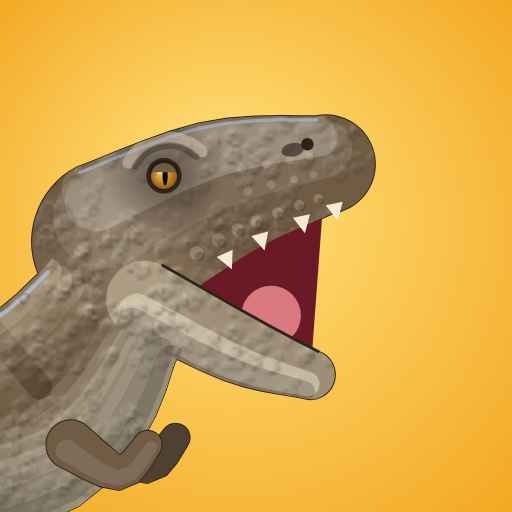
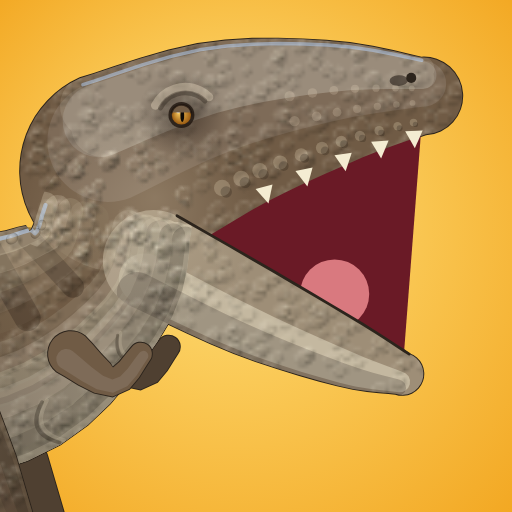
Reshape T. rex with realistic proportions
Claude-Session: https://claude.ai/code/session_01VZZ5QiPWKQFCNGsoWHmeoG

diff --git a/index.html b/index.html
@@ -393,7 +393,7 @@ function pose(sp, a) {
     let fx = L.hip[0] + L.fo + Math.cos(ph) * L.stride * a.amp, fy = -Math.max(0, -Math.sin(ph)) * L.lift * a.amp - L.r[2];
     if (kck && L.hip[0] > hipx + 4) { fx += kck * 38; fy -= kck * 34; }
     if (a.held) { fx = L.hip[0] + L.fo + Math.sin(a.time * 10 + L.ph) * 8; fy = 5 - L.r[2]; }
-    if (SHADE3D && sp.near.length === 1 && !a.held && !sp.fly) {
+    if ((SHADE3D || GAMEART) && sp.near.length === 1 && !a.held && !sp.fly) {
       const mt = L.l2 * 0.62, ax = fx - mt * 0.4, ay = fy - mt * 0.9, kk = ik(L.hip[0], hy2, L.l1 * 0.92, L.l2 * 0.8, ax, ay, L.bend);
       return {
         limb: catmull([[L.hip[0], hy2, L.r[0] * 1.18], [kk[0], kk[1], L.r[1] * 0.95], [kk[2], kk[3], L.r[2] * 0.72], [fx, fy, L.r[2] * 0.62]], 4),
@@ -421,7 +421,24 @@ function mix(h1, h2, t) { const a = parseInt(h1.slice(1), 16), b = parseInt(h2.s
 const skinTex = (() => { const c = document.createElement('canvas'); c.width = c.height = 72; const x = c.getContext('2d'), R = mulberry(9); for (let i = 0; i < 250; i++) { x.fillStyle = R() < 0.62 ? 'rgba(20,14,8,' + (0.1 + R() * 0.17) + ')' : 'rgba(255,248,225,' + (0.08 + R() * 0.12) + ')'; x.beginPath(); x.ellipse(R() * 72, R() * 72, 0.8 + R() * 2.2, 0.6 + R() * 1.6, R() * 3, 0, TAU); x.fill(); } return c; })();
 const skinPat = new WeakMap();
 /* sculpted look: soft rounded light and shadow across every body part, a cool rim light, shadow where limbs meet the body, and embossed scales */
-let SHADE3D = true;
+let SHADE3D = true, GAMEART = false;
+const GAME_C = { trex: { base: '#d8463a', dark: '#8f2620', belly: '#f3dcb6' } };
+function gameC(sp) { const o = { ...sp.c, ...(GAME_C[sp.id] || {}) }; o.far = shade(o.base, -0.32); o.hi = shade(o.base, 0.3); o.h1 = shade(o.base, 0.14); o.lo = shade(o.base, -0.26); o.line = shade(o.base, -0.7); o.mid = mix(o.base, o.belly, 0.72); return o; }
+function gameArt(ctx, sp, g, a) {
+  const d = g.dense, n = d.length, c = sp.c, R = mulberry(sp.id.length * 31 + 7);
+  ctx.save(); ctx.beginPath(); tube(ctx, d, 0); ctx.clip();
+  fillTubes(ctx, [offT(d, 0.86, 0.2)], 0, 'rgba(90,30,30,.2)');   // a crisp shadow along the underside
+  fillTubes(ctx, [offT(d, -0.72, 0.2, Math.floor(n * 0.05))], 0, 'rgba(255,235,210,.28)');   // and a bright band along the back
+  for (let i = 3; i < n - 3; i += 2) { const p = d[i], r = p[2], nn = nrm(d, i); if (r < 4) continue; for (let k = 0; k < 3; k++) { const v = -0.85 + R() * 0.9, x = p[0] + nn[0] * r * v + (R() - 0.5) * 6, y = p[1] + nn[1] * r * v + (R() - 0.5) * 6; ctx.fillStyle = R() < 0.6 ? 'rgba(90,20,20,.22)' : 'rgba(255,220,200,.2)'; circ(ctx, x, y, 0.6 + R() * 1.1); ctx.fill(); } }
+  ctx.restore();
+  const sk = g.skullD; for (let i = 1; i < sk.length - 2; i += 2) { const p = sk[i], nn = nrm(sk, i), x = p[0] - nn[0] * p[2] * 0.92, y = p[1] - nn[1] * p[2] * 0.92, r = Math.max(0.8, p[2] * 0.09); circ(ctx, x, y, r); ctx.fillStyle = c.lo; ctx.fill(); }   // knobbly scales on top of the head
+  for (let i = Math.floor(n * 0.62); i < n - 1; i += 3) { const p = d[i], nn = nrm(d, i), x = p[0] - nn[0] * p[2] * 0.95, y = p[1] - nn[1] * p[2] * 0.95, r = Math.max(0.8, p[2] * 0.07); circ(ctx, x, y, r); ctx.fillStyle = c.lo; ctx.fill(); }
+}
+function gameSocks(ctx, list, c) {   // lower legs and feet fade to a dark slate colour
+  for (const L of list) { const lb = L.limb, k = lb[Math.floor(lb.length * 0.55)], f = L.foot[1];
+    ctx.save(); ctx.beginPath(); for (const t of [lb, L.foot]) tube(ctx, t, 0); ctx.clip();
+    const gr = ctx.createLinearGradient(0, k[1] - k[2], 0, f[1]); gr.addColorStop(0, 'rgba(70,64,96,0)'); gr.addColorStop(0.45, 'rgba(70,64,96,.75)'); gr.addColorStop(1, 'rgba(58,52,80,.95)'); ctx.fillStyle = gr; ctx.fillRect(f[0] - 200, k[1] - k[2], 400, f[1] - k[1] + k[2] + 40); ctx.restore(); }
+}
 const scaleTex = (() => { const c = document.createElement('canvas'); c.width = c.height = 56; const x = c.getContext('2d'), R = mulberry(21);
   for (let i = 0; i < 160; i++) { const px = R() * 56, py = R() * 56, r = 1.1 + R() * 1.3; for (const [dx, dy] of [[0, 0], [56, 0], [-56, 0], [0, 56], [0, -56]]) { x.beginPath(); x.arc(px + dx, py + dy, r, Math.PI * 0.85, Math.PI * 1.85); x.strokeStyle = 'rgba(255,250,230,.16)'; x.lineWidth = 0.9; x.stroke(); x.beginPath(); x.arc(px + dx, py + dy, r, Math.PI * 1.85, Math.PI * 2.85); x.strokeStyle = 'rgba(15,10,6,.18)'; x.stroke(); } }
   return c; })();
@@ -504,6 +521,10 @@ function sculptLimbs(ctx, sp, g, a, list) {
   }
 }
 function drawEye(ctx, x, y, r, a, sp) {
+  if (GAMEART && !a.blink) { r *= 0.6; circ(ctx, x, y, r * 1.2); ctx.fillStyle = '#fff8ec'; ctx.fill(); ctx.strokeStyle = sp.c.line; ctx.lineWidth = Math.max(0.6, r * 0.18); ctx.stroke();
+    const ir = ctx.createRadialGradient(x, y + r * 0.2, r * 0.1, x, y, r * 0.95); ir.addColorStop(0, '#7fd0ff'); ir.addColorStop(1, '#1f5fb8'); circ(ctx, x + a.lx * r * 0.15, y, r * 0.85); ctx.fillStyle = ir; ctx.fill();
+    circ(ctx, x + a.lx * r * 0.2, y, r * 0.42); ctx.fillStyle = '#0c1020'; ctx.fill(); circ(ctx, x - r * 0.25, y - r * 0.35, r * 0.22); ctx.fillStyle = '#fff'; ctx.fill();
+    ctx.beginPath(); ctx.arc(x, y, r * 1.25, Math.PI * 1.1, Math.PI * 1.9); ctx.lineTo(x + r * 1.3, y - r * 0.6); ctx.closePath(); ctx.fillStyle = sp.c.lo; ctx.fill(); return; }
   if (SHADE3D) {
     r *= 0.5; const c = sp.c;
     circ(ctx, x, y, r * 1.35); ctx.fillStyle = 'rgba(25,16,10,.75)'; ctx.fill();
@@ -533,7 +554,7 @@ function desat(col) {
   const L = 0.3 * r + 0.59 * g + 0.11 * b, k = 0.3; r = (r + (L - r) * k) * 0.93; g = (g + (L - g) * k) * 0.93; b = (b + (L - b) * k) * 0.93; const h2 = v => Math.max(0, Math.min(255, Math.round(v))).toString(16).padStart(2, '0'); return '#' + h2(r) + h2(g) + h2(b);   // hex, so other colour helpers can keep mixing it
 }
 function realC(sp) { let o = realCols.get(sp); if (!o) { o = {}; for (const k in sp.c) o[k] = typeof sp.c[k] === 'string' ? desat(sp.c[k]) : sp.c[k]; realCols.set(sp, o); } return o; }
-function drawDino(ctx, sp, a) { if (!SHADE3D) return drawDino0(ctx, sp, a); const keep = sp.c; sp.c = realC(sp); try { drawDino0(ctx, sp, a); } finally { sp.c = keep; } }
+function drawDino(ctx, sp, a) { if (GAMEART) { const keep = sp.c, hk = a.headK; sp.c = gameC(sp); a.headK = (hk || 1) * 1.12; try { drawDino0(ctx, sp, a); } finally { sp.c = keep; a.headK = hk; } return; } if (!SHADE3D) return drawDino0(ctx, sp, a); const keep = sp.c; sp.c = realC(sp); try { drawDino0(ctx, sp, a); } finally { sp.c = keep; } }
 
 /* ============ current science: feathers, lips, a paddle tail, big claws ============ */
 const FEATHERED = { raptor: 'wing', galli: 'wing', theri: 'wing', compy: 'fuzz' }, FUZZY = { ptera: 1, quetz: 1, dimorph: 1 }, NO_LIPS = { ichthy: 1, dimorph: 1 };
@@ -584,12 +605,12 @@ function accFront(ctx, sp, g, a) {
   }
 }
 function drawDino0(ctx, sp, a) {
-  const c = sp.c; a.line = c.line; a.ow *= SHADE3D && a.fine !== false ? 0.3 : 0.8;   // sculpted bodies need only a fine edge
+  const c = sp.c; a.line = c.line; a.ow *= GAMEART ? 0.45 : SHADE3D && a.fine !== false ? 0.3 : 0.8;   // sculpted bodies need only a fine edge
   const g = pose(sp, a), ow = a.ow, soft = !Q || !!a.closeUp, fine = soft && a.fine !== false;   // close-ups always get full detail   // the finest shading layers are skipped when a dinosaur is small on screen
   const off = (d, k, rk, i0 = 0) => { const out = []; for (let i = i0; i < d.length; i++) { const p = d[i], nn = nrm(d, i); out.push([p[0] + nn[0] * p[2] * k, p[1] + nn[1] * p[2] * k, Math.max(0.6, p[2] * rk)]); } return out; };
   const far = []; for (const L of g.far) far.push(L.limb, L.foot);
   if (g.farArm) far.push(g.farArm);
-  if (far.length) { fillTubes(ctx, far, ow, c.line); fillTubes(ctx, far, 0, c.far); }
+  if (far.length) { fillTubes(ctx, far, ow, c.line); fillTubes(ctx, far, 0, c.far); if (GAMEART) gameSocks(ctx, g.far, c); }
   if (sp.back) sp.back(ctx, g, sp, a);
   if (SHADE3D) accBack(ctx, sp, g, a);
   fillTubes(ctx, [g.dense, g.skullD, g.jawD], ow, c.line);
@@ -611,13 +632,14 @@ function drawDino0(ctx, sp, a) {
   if (fine) fillTubes(ctx, [off(d, 0.72, 0.27, b0)], 0, 'rgba(34,26,20,.13)'); if (soft) fillTubes(ctx, [off(d, 0.87, 0.14, b0)], 0, 'rgba(34,26,20,.2)');
   }
   if (sp.marks) sp.marks(ctx, g, sp, a);
+  if (GAMEART) gameArt(ctx, sp, g, a);
   if (SHADE3D && fine) sculptBody(ctx, sp, g, a);
   if (SHADE3D) accCoat(ctx, sp, g, a);
   if (sp.mid) { sp.mid(ctx, g, sp, a); fillTubes(ctx, [sk, jw], ow, c.line); mouthIn(); headFill(); }
   ctx.strokeStyle = c.line; ctx.lineWidth = Math.max(0.8, ow * 0.8); ctx.lineCap = 'round'; ctx.beginPath();
   for (let i = 0; i < jw.length; i++) { const p = jw[i], nn = nrm(jw, i), x = p[0] - nn[0] * p[2], y = p[1] - nn[1] * p[2]; i ? ctx.lineTo(x, y) : ctx.moveTo(x, y); }
   ctx.stroke();
-  if (sp.teeth && !(SHADE3D && sp.lips && a.jaw < 0.3)) {
+  if (sp.teeth && !(SHADE3D && !GAMEART && sp.lips && a.jaw < 0.3)) {
     ctx.fillStyle = '#f4ecd2'; const th = 5 * g.hk;
     for (let i = Math.floor(sk.length * 0.38); i < sk.length; i += 2) {
       const p = sk[i], nn = nrm(sk, i), tx = nn[1], ty = -nn[0], bx = p[0] + nn[0] * p[2] * 0.82, by = p[1] + nn[1] * p[2] * 0.82;
@@ -629,11 +651,12 @@ function drawDino0(ctx, sp, a) {
   const near = []; for (const L of g.near) near.push(L.limb, L.foot);
   if (near.length) {
     fillTubes(ctx, near, ow, c.line); fillTubes(ctx, near, 0, c.base);
+    if (GAMEART) gameSocks(ctx, g.near, c);
     if (SHADE3D && fine) sculptLimbs(ctx, sp, g, a, g.near); else { if (soft) fillTubes(ctx, g.near.map(L => off(L.limb, 0.34, 0.44)), 0, c.h1); if (fine) fillTubes(ctx, g.near.map(L => off(L.limb, -0.6, 0.26)), 0, 'rgba(34,26,20,.16)'); }
     if (SHADE3D && fine) drawClaws(ctx, g.near); else { ctx.fillStyle = '#3d352c';
     for (const L of g.near) { const f = L.foot[1], r = f[2]; for (let k = 0; k < 3; k++) { circ(ctx, f[0] + r * 0.7 - k * r * 0.62, f[1] + r * 0.62, r * 0.2); ctx.fill(); } } }
   }
-  if (a.tex && soft && !(SHADE3D && fine)) {
+  if (a.tex && soft && !GAMEART && !(SHADE3D && fine)) {
     let p = skinPat.get(ctx); if (!p) { p = ctx.createPattern(skinTex, 'repeat'); skinPat.set(ctx, p); }
     ctx.save(); ctx.beginPath(); tube(ctx, d, 0); tube(ctx, sk, 0); tube(ctx, jw, 0); for (const t of near) tube(ctx, t, 0); if (g.arm) tube(ctx, g.arm, 0); ctx.clip();
     const b = sp.box; ctx.fillStyle = p; ctx.fillRect(b[0] - 260, b[1] - 260, b[2] - b[0] + 520, b[3] - b[1] + 520); ctx.restore();
@@ -702,10 +725,10 @@ function species(id, o) { o.id = id; o.cat = 'dino'; o.c.far = shade(o.c.base, -
 
 species('trex', { name: 'Tyrannosaurus rex', diet: 'meat', size: 1, speed: 55, fierce: true, teeth: true, big: true, eatPitch: 0.5,
   c: { base: '#c9682f', dark: '#8a3c1a', belly: '#f6dba6' }, voice: { kind: 'roar', f: 70, d: 1.45, vol: 0.62 },
-  spine: [[-158, -84, 3], [-110, -86, 11], [-62, -92, 22], [-18, -100, 33], [28, -108, 31], [56, -130, 23]], neck: 4,
-  skull: [[64, -150, 24], [98, -152, 20], [128, -147, 14]], jaw: [[70, -136, 11], [100, -132, 10], [122, -132, 7]], hinge: [62, -140], eye: [84, -162, 7.5],
-  ...biped(-10, -84, 48, 46, [20, 12, 8], 26), arm: [[40, -98, 7], [54, -86, 5], [62, -90, 4]],
-  box: [-165, -185, 150, 6], marks(ctx, g, sp) { stripes(ctx, g, sp); } });
+  spine: [[-176, -112, 2], [-128, -114, 10], [-78, -118, 22], [-28, -122, 36], [18, -126, 34], [46, -144, 25], [56, -160, 22]], neck: 5,
+  skull: [[64, -174, 29], [96, -174, 25], [128, -168, 18], [152, -160, 11]], jaw: [[70, -150, 14.5], [102, -146, 13], [132, -144, 9.5], [148, -144, 6]], hinge: [62, -158], eye: [86, -182, 5.5],
+  ...biped(-10, -106, 60, 56, [25, 13.5, 9], 23), arm: [[40, -124, 6.5], [52, -112, 4.2], [60, -116, 3.2]],
+  box: [-180, -205, 168, 6], marks(ctx, g, sp) { stripes(ctx, g, sp); } });
 
 species('spino', { name: 'Spinosaurus', diet: 'meat', size: 1.06, speed: 50, fierce: true, teeth: true, big: true, eatPitch: 0.4,
   c: { base: '#a8456b', dark: '#6c2646', belly: '#f6d2c0', accent: '#f4a53a' }, voice: { kind: 'roar', f: 84, d: 1.3, vol: 0.58 },
@@ -2018,7 +2041,7 @@ function selectTab(i) {
 function drawIcons() {
   for (const t of TABS) if (t.cv) fitIcon(t.cv, t.icon, { fill: 0.8 });
   for (const [c, types] of iconJobs) { fitIcon(c, types); if (types.length === 1 && isLocked(types[0])) lockIcon(c); }
-  const rc = document.querySelector('#roar canvas'); if (rc) fitIcon(rc, ['trex'], { box: [36, -206, 150, -96], fill: 1, pose: { jaw: 1, nod: -0.2, amp: 0 } });
+  const rc = document.querySelector('#roar canvas'); if (rc) fitIcon(rc, ['trex'], { box: [44, -212, 176, -122], fill: 1, pose: { jaw: 1, nod: -0.2, amp: 0 } });
   const bc = document.querySelector('#bat canvas'); if (bc) paintIcon(bc, drawVs);
   const dc = document.querySelector('#dig canvas'); if (dc) paintIcon(dc, drawDigIcon);
 }
@@ -2336,7 +2359,7 @@ function drawHorn(c, r) {
 function drawVs(c, r) {
   const s = r * 1.5 / 114;
   for (const side of [-1, 1]) {
-    c.save(); c.translate(side * r * 0.82, r * 0.16); c.scale(-side * s, s); c.translate(-93, 151); c.beginPath(); c.rect(24, -222, 140, 140); c.clip();
+    c.save(); c.translate(side * r * 0.82, r * 0.16); c.scale(-side * s, s); c.translate(-110, 167); c.beginPath(); c.rect(36, -228, 152, 152); c.clip();
     drawThing(c, 'trex', { ...A0, jaw: 0.5, nod: -0.1, amp: 0, ow: clamp(2.2 / s, 2, 9), shake: 0, flare: 0, spin: 0.6, cheer: 0, moving: false, e: null }); c.restore();
   }
   c.lineJoin = 'round'; c.lineWidth = Math.max(2, r * 0.08); c.strokeStyle = OUT;
@@ -2347,7 +2370,7 @@ function paintDuelIcons() {
   if (!duel) return;
   duel.kit[0].forEach((k, i) => {
     const b = dBtns[i], cv = b.firstElementChild; b.setAttribute('aria-label', MOVE_NAME[k]); b.title = MOVE_NAME[k];
-    if (k === 'roar') fitIcon(cv, ['trex'], { box: [36, -206, 150, -96], fill: 0.85, pose: { jaw: 1, nod: -0.2, amp: 0 } }); else paintIcon(cv, MOVE_ICON[k]);
+    if (k === 'roar') fitIcon(cv, ['trex'], { box: [44, -212, 176, -122], fill: 0.85, pose: { jaw: 1, nod: -0.2, amp: 0 } }); else paintIcon(cv, MOVE_ICON[k]);
   });
   if (!dAgainBtn.hidden) paintIcon(dAgainBtn.firstElementChild, drawAgain);
   if (!dMedBtn.hidden) paintIcon(dMedBtn.firstElementChild, drawMed);
@@ -3122,7 +3145,7 @@ function start(data) {
   document.addEventListener('visibilitychange', () => { if (document.hidden) { save(); if (pending && cloud) { cloudT = 0; cloudSave(); } } });
   window.addEventListener('pagehide', save);
 }
-window.__cc = { setShade: v => { SHADE3D = !!v; }, get shade() { return SHADE3D; }, startEscape, openChase, throwNet, get chase() { return chase; }, set escT(v) { escT = v; }, get dig() { return dig; }, get unlocked() { return unlocked; }, openDig, isLocked, get duel() { return duel; }, get picking() { return picking; }, openDuel, duelDo, setPicking, pickFighter, closeDuel, get Q() { return Q; }, get sync() { return { cloud: !!cloud, pending, edits, stateTs, hadLocal }; }, get placing() { return placing; }, get care() { return care; }, openCare, careDo, objs, dinos, movers, foods, tiles, occ, cam, DEF, drawThing, A0, w2s, g2w, mpos, dpos, pbase, ocenter, serialize };
+window.__cc = { setGame: v => { GAMEART = !!v; }, setShadeOnly: v => { SHADE3D = !!v; }, setShade: v => { SHADE3D = !!v; }, get shade() { return SHADE3D; }, startEscape, openChase, throwNet, get chase() { return chase; }, set escT(v) { escT = v; }, get dig() { return dig; }, get unlocked() { return unlocked; }, openDig, isLocked, get duel() { return duel; }, get picking() { return picking; }, openDuel, duelDo, setPicking, pickFighter, closeDuel, get Q() { return Q; }, get sync() { return { cloud: !!cloud, pending, edits, stateTs, hadLocal }; }, get placing() { return placing; }, get care() { return care; }, openCare, careDo, objs, dinos, movers, foods, tiles, occ, cam, DEF, drawThing, A0, w2s, g2w, mpos, dpos, pbase, ocenter, serialize };
 const hot = window.claude && window.claude.hot;
 try { if (hot && hot.snapshot) hot.snapshot(() => serialize()); } catch (e) {}
 if (hot && hot.ready) hot.ready(d => start(d || {})); else start((hot && hot.data) || {});

diff --git a/sw.js b/sw.js
@@ -1,5 +1,5 @@
 // Keeps a copy of the game on the device so it opens without internet. Shows the saved copy at once and refreshes it in the background.
-const CACHE = 'cretaceous-creatures-202611010016';
+const CACHE = 'cretaceous-creatures-202611010104';
 const SHELL = ['./', 'index.html', 'manifest.webmanifest', 'icon-180.png', 'icon-192.png', 'icon-512.png'];
 self.addEventListener('install', e => e.waitUntil(caches.open(CACHE).then(c => c.addAll(SHELL)).then(() => self.skipWaiting())));
 self.addEventListener('activate', e => e.waitUntil(caches.keys().then(ks => Promise.all(ks.filter(k => k !== CACHE).map(k => caches.delete(k)))).then(() => self.clients.claim())));
